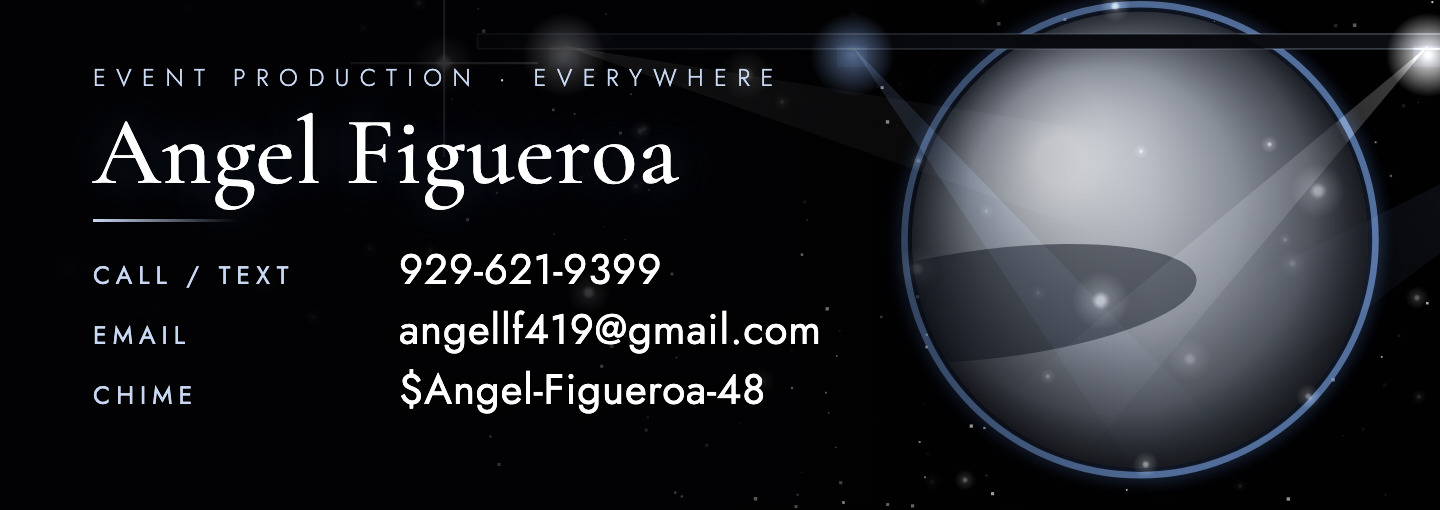
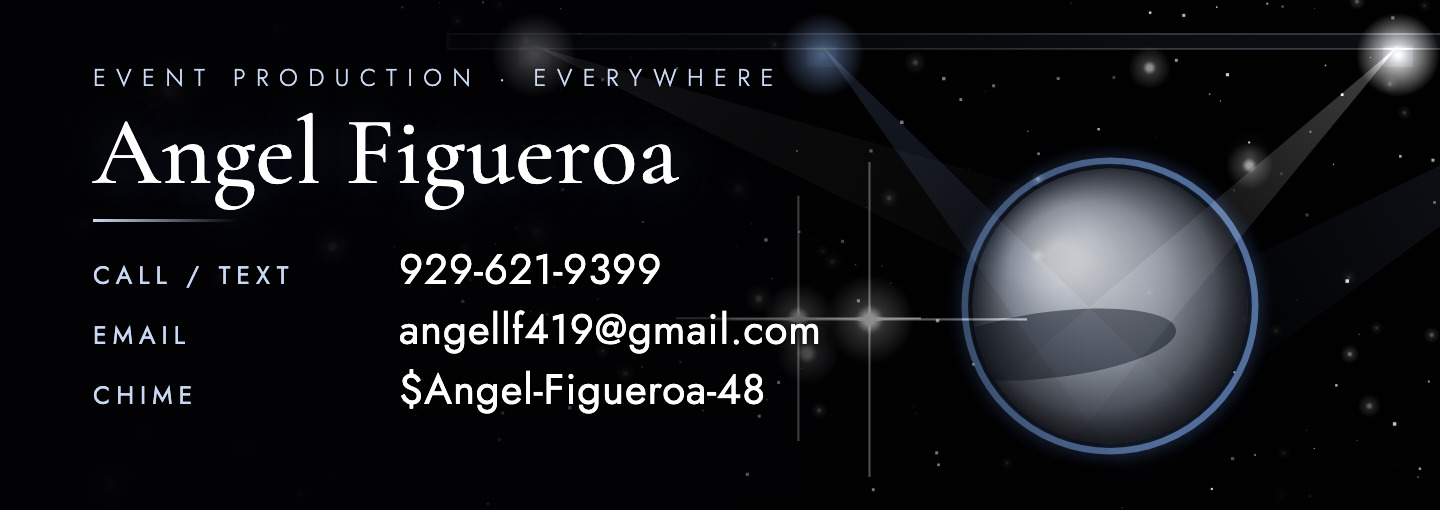
Signature 09: smaller Pluto so the stage lights read

diff --git a/styles.html b/styles.html
@@ -349,7 +349,7 @@ const P = {
     if (!s.st) s.st = Array.from({ length: 240 }, () => ({ x: R(0, W), y: R(0, H), r: R(.2, 1.2), p: R(0, 9) }));
     x.fillStyle = '#010102'; x.fillRect(0, 0, W, H);
     for (const p of s.st) { x.fillStyle = `rgba(255,255,255,${.45 + .4 * Math.sin(t * .7 + p.p)})`; x.fillRect(p.x, p.y, p.r, p.r); }
-    const cx = W / 2, cy = H * .47, r = 76;
+    const cx = W / 2, cy = H * (H < 300 ? .6 : .47), r = Math.min(76, H * .27);
     // haze: a fine blue ring hugging the limb
     x.save(); x.shadowColor = 'rgba(110,160,255,.9)'; x.shadowBlur = 16; x.strokeStyle = 'rgba(140,185,255,.55)'; x.lineWidth = 2.2;
     x.beginPath(); x.arc(cx, cy, r + 2.5, 0, Math.PI * 2); x.stroke(); x.restore();
